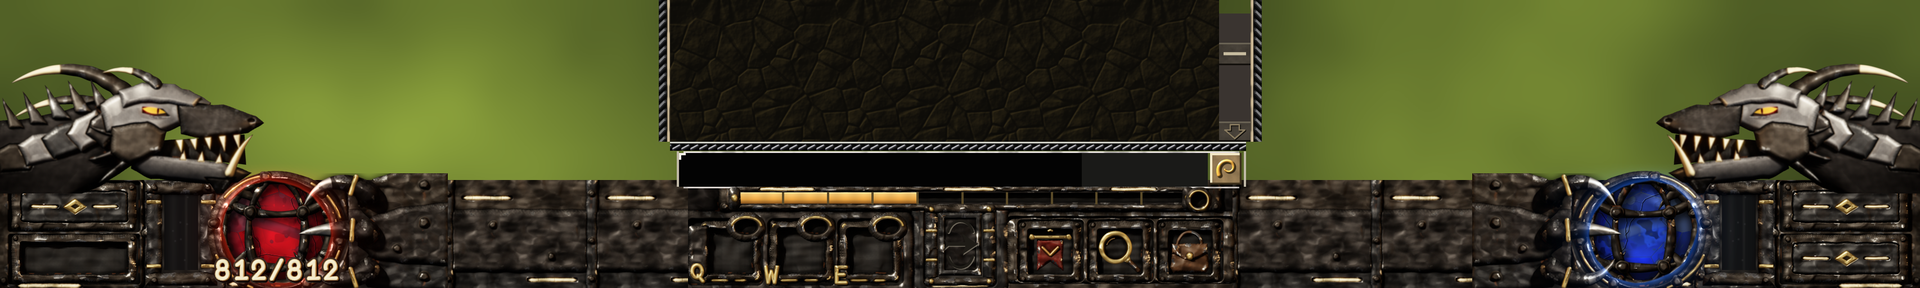
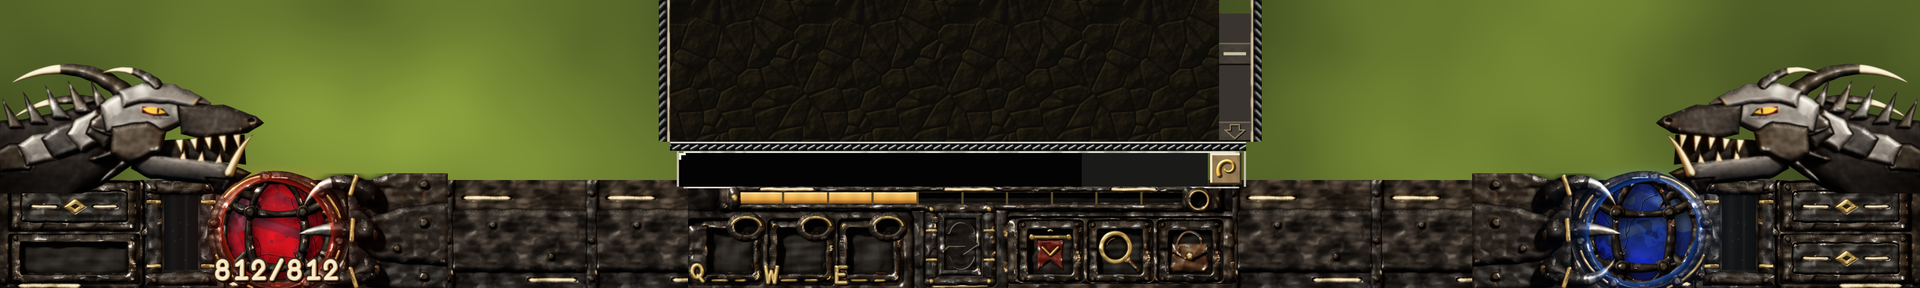
Gems: win back the fill-level margin by easing the rim vignette, soot and clot darkening; deep-glass floor back to 0.30

diff --git a/tools/ui-assets/gen_hud.py b/tools/ui-assets/gen_hud.py
@@ -273,8 +273,8 @@ GEM_R_U, GEM_C_U = 24.0, 24.9   # the stone's radius and centre in its 50 u spri
 # keep the share of chroma that survives, knee where the highlight compression starts. The traced stone peaks at 1.00
 # with p99 0.99 and a ruby saturation near 1.0; what the grade leaves is measured in check_hud.
 GEM_GRADE = {
-    "hp": dict(cap=0.66, knee=0.28, keep=0.64, tint=(0.95, 0.58, 0.76), gain=1.9, core=(0.46, 0.50), glow=(0.24, 0.005, 0.032), hl=(0.36, 0.19, 0.18)),
-    "mp": dict(cap=0.60, knee=0.26, keep=0.48, tint=(0.86, 0.95, 1.00), gain=1.8, core=(0.54, 0.50), glow=(0.065, 0.14, 0.38), hl=(0.24, 0.31, 0.42)),
+    "hp": dict(cap=0.80, knee=0.34, keep=0.64, tint=(0.95, 0.58, 0.76), gain=1.85, core=(0.46, 0.50), glow=(0.19, 0.004, 0.028), hl=(0.36, 0.19, 0.18)),
+    "mp": dict(cap=0.50, knee=0.26, keep=0.48, tint=(0.86, 0.95, 1.00), gain=1.45, core=(0.54, 0.50), glow=(0.045, 0.10, 0.25), hl=(0.24, 0.31, 0.42)),
 }
 # glow is the candlelight that burns through the liquid (an sRGB add at the lit core, brighter where the fluid is thick
 # and along the thin lip of each clot); hl is the pale, wet, broken sheen on the upper-left glass. Neither may reach plastic:
@@ -407,11 +407,11 @@ def _grade_glass(kind: str, state: str, px: np.ndarray, cage: np.ndarray) -> np.
     if state == "empty":
         rgb = rgb * 0.30   # drained glass is soot-dark: the lit fluid is what shows the level (the C# gem test counts the pixels that differ)
     if state == "full":
-        body = 1.0 + 0.52 * (run - 0.5) - 0.62 * clots * (0.5 + 0.5 * run)
+        body = 1.0 + 0.52 * (run - 0.5) - 0.40 * clots * (0.5 + 0.5 * run)
         rgb = rgb * body[..., None]
         yy, xx = np.mgrid[0:GEM_PX, 0:GEM_PX].astype(np.float32)
         rpx = GEM_R_U * U.SCALE
-        d2 = ((xx - GEM_PX * g["core"][0]) ** 2 + (yy - GEM_PX * g["core"][1]) ** 2) / (0.78 * rpx) ** 2
+        d2 = ((xx - GEM_PX * g["core"][0]) ** 2 + (yy - GEM_PX * g["core"][1]) ** 2) / (0.95 * rpx) ** 2
         core = np.exp(-d2) * (0.55 + 0.80 * run)
         lip = clots * (1 - _smoothstep(0.74, 0.80, clot))
         glow = np.array(g["glow"], np.float32)
@@ -422,18 +422,18 @@ def _grade_glass(kind: str, state: str, px: np.ndarray, cage: np.ndarray) -> np.
         arc = _smoothstep(math.radians(46), math.radians(14), dang) * _smoothstep(0.50, 0.62, rad) * (1 - _smoothstep(0.80, 0.90, rad))
         broken = _smoothstep(0.50, 0.64, _noise_px(seed + ".wet", 1.1, octaves=2))
         rgb = rgb + (arc * broken * 0.85)[..., None] * np.array(g["hl"], np.float32)
-        rgb = rgb * (1 - 0.34 * _smoothstep(0.55, 1.0, rad))[..., None]   # the outer glass falls away: the lit part is a core, not the whole stone
+        rgb = rgb * (1 - 0.10 * _smoothstep(0.80, 1.0, rad))[..., None]   # the outer glass falls away: the lit part is a core, not the whole stone
     rim = 1 - _smoothstep(0.50, 0.97, forge.blur(a, 4.5 * U.SCALE))
     pit = _noise_px(seed + ".soot", 0.9, octaves=2)
     smudge = _noise_px(seed + ".smudge", 4.0)
-    soot = np.clip(0.80 * rim * (0.4 + 0.8 * smudge) + 0.5 * _smoothstep(0.66, 0.78, pit) * (0.35 + 0.65 * rim)
+    soot = np.clip(0.40 * rim * (0.4 + 0.8 * smudge) + 0.35 * _smoothstep(0.66, 0.78, pit) * (0.35 + 0.65 * rim)
                    + 0.35 * _smoothstep(0.55, 0.85, forge.blur(cage[..., 3], 2.2 * U.SCALE)), 0, 0.85)
     rgb = rgb * (1 - soot[..., None] * 0.80) + soot[..., None] * np.array((0.012, 0.011, 0.010), np.float32)
     crack = _cracks(seed, kind)
     shifted = np.roll(crack, (-1, -1), axis=(0, 1))
     rgb = rgb * (1 - 0.88 * crack[..., None]) + np.array(g["tint"], np.float32) * (np.clip(shifted - crack, 0, 1) * 0.16)[..., None]
     sh = np.roll(forge.blur(cage[..., 3], 1.7 * U.SCALE), (int(2.2 * U.SCALE), int(1.6 * U.SCALE)), axis=(0, 1))   # the cast shadow lands on the fluid beneath
-    rgb = rgb * (1 - 0.80 * sh[..., None])
+    rgb = rgb * (1 - 0.62 * sh[..., None])
     ca = cage[..., 3:4]
     rgb = rgb * (1 - ca) + cage[..., :3] * ca
     out8 = (np.clip(rgb, 0, 1) * 255 + 0.5).astype(np.uint8)

diff --git a/tools/ui-assets/tests/check_hud.py b/tools/ui-assets/tests/check_hud.py
@@ -166,19 +166,19 @@ def check_gems(errs, S):
         fl = rgb / 255.0
         sat = (fl.max(axis=2) - fl.min(axis=2)) / np.maximum(fl.max(axis=2), 1e-6)
         iron = (sat < 0.30) & (luma(full) > 0.06) & (luma(full) < 0.6)
-        for label, m, need in (("oxidised body", body, 0.30), ("deep glass", deep, 0.22), ("iron cage", iron, 0.06)):   # SHARE of the stone, measured hp / mp: body 0.361 / 0.350, deep 0.411 / 0.280, iron 0.109 / 0.095
+        for label, m, need in (("oxidised body", body, 0.35), ("deep glass", deep, 0.30), ("iron cage", iron, 0.06)):   # SHARE of the stone, measured hp / mp: body 0.467 / 0.396, deep 0.328 / 0.338, iron 0.108 / 0.096
             if (m & ins).sum() < need * ins.sum():
                 errs.append(f"gem.{kind}.full: {label} cover {(m & ins).sum() / ins.sum():.3f} of the stone, want {need}")
         if (luma(full)[ins] > 0.80).mean() > 0.004:   # LUMA share over 0.80, measured 0.0017 / 0.0005 after the iteration-3 relight (0.0023 / 0.0003 before): no plastic hot spot survives
             errs.append(f"gem.{kind}.full: plastic highlights cover {(luma(full)[ins] > 0.80).mean():.4f} of the stone")
-        if np.percentile(fl.max(axis=2)[ins], 99) > 0.86:   # MAX-CHANNEL (not luma) p99, measured 0.800 / 0.824
+        if np.percentile(fl.max(axis=2)[ins], 99) > 0.86:   # MAX-CHANNEL (not luma) p99, measured 0.835 / 0.682
             errs.append(f"gem.{kind}.full: p99 channel {np.percentile(fl.max(axis=2)[ins], 99):.3f} over the 0.86 ceiling")
         # the glass alone (HSV S > 0.45; the near-neutral iron cage drags a whole-sprite mean down): lit through, still oxidised
         glass = ins & (sat > 0.45)
         gv = fl.max(axis=2)[glass]
-        if np.percentile(gv, 95) < 0.40:   # measured glass p95 of the MAX CHANNEL 0.737 / 0.749 (luma is ~0.35 of it on the red stone); the C# ClassicHudGemTests counts the pixels that differ between fill 0 and 1
+        if np.percentile(gv, 95) < 0.40:   # measured glass p95 of the MAX CHANNEL 0.784 / 0.608 (luma is ~0.35 of it on the red stone); the C# ClassicHudGemTests counts the pixels that differ between fill 0 and 1
             errs.append(f"gem.{kind}.full: glass p95 {np.percentile(gv, 95):.3f} under 0.40: the fluid is not lit")
-        if sat[glass].mean() < 0.70:   # measured 0.806 / 0.726
+        if sat[glass].mean() < 0.70:   # measured 0.802 / 0.722
             errs.append(f"gem.{kind}.full: glass saturation {sat[glass].mean():.3f} under 0.70")
         if np.percentile(sat[ins], 50) > 0.85:   # measured median saturation 0.76 / 0.70
             errs.append(f"gem.{kind}.full: median saturation {np.percentile(sat[ins], 50):.2f} is candy")
